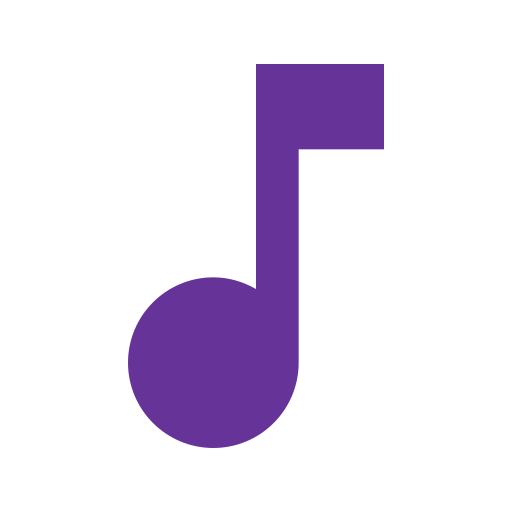
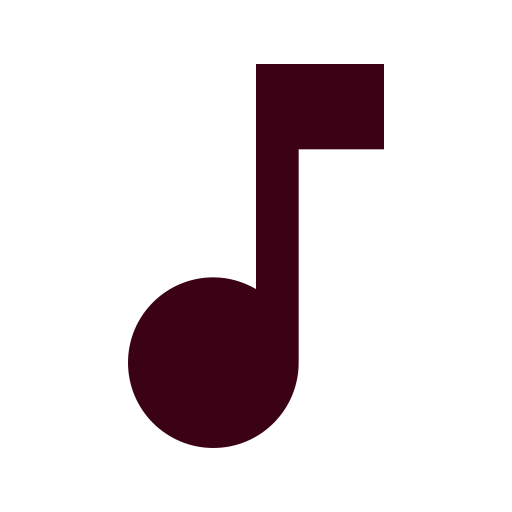
Rebrand

Changed region(s): [[0.25, 0.125, 0.75, 0.875]]

diff --git a/gatsby-config.js b/gatsby-config.js
@@ -1,10 +1,10 @@
 module.exports = {
   siteMetadata: {
-    title: `Pitch Pipe`,
-    description: `Kick off your next, great Gatsby project with this default starter. This barebones starter ships with the main Gatsby configuration files you might need.`,
+    title: `Pitch, Please?`,
+    description: `A pitch pipe.`,
     author: `@adriancampos`,
   },
-  pathPrefix: "/pitch-pipe",
+  pathPrefix: "/pitch-please",
   plugins: [
     `gatsby-plugin-react-helmet`,
     {
@@ -22,8 +22,8 @@ module.exports = {
         name: `Pitch Pipe`,
         short_name: `PitchPipe`,
         start_url: `/`,
-        background_color: `#663399`,
-        theme_color: `#663399`,
+        background_color: `#3b0215`,
+        theme_color: `#3b0215`,
         display: `minimal-ui`,
         icon: `src/images/pitchpipe-icon.png`, // This path is relative to the root of the site.
       },

diff --git a/src/components/header.js b/src/components/header.js
@@ -5,7 +5,7 @@ import React from "react"
 const Header = ({ siteTitle }) => (
   <header
     style={{
-      background: `rebeccapurple`,
+      background: `#3b0215`,
       marginBottom: `1.45rem`,
     }}
   >
